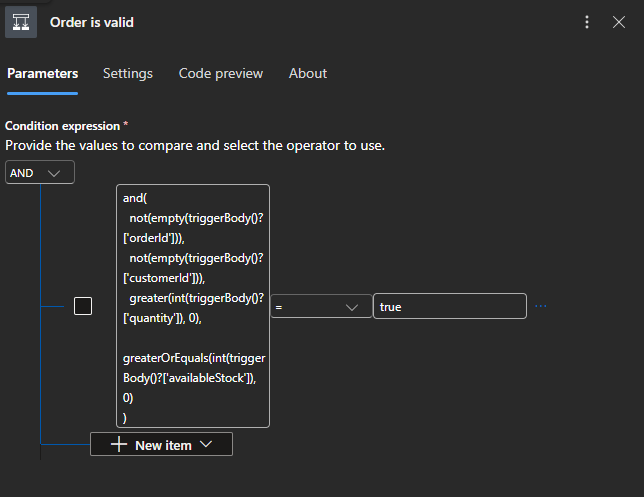
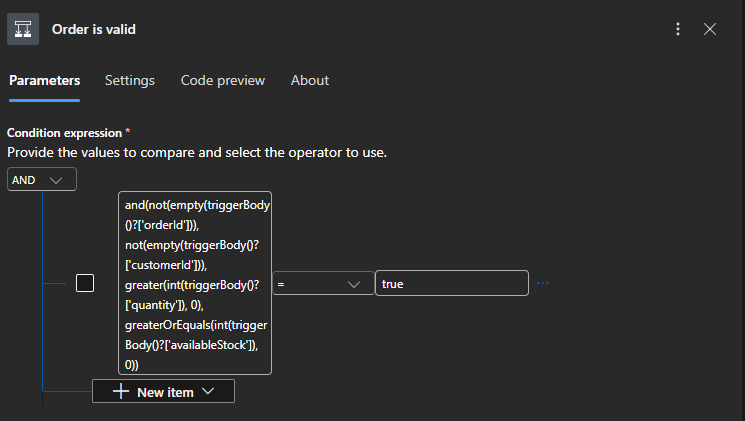
Publish workshop to Public Pages

diff --git a/labs/lab03-order-fulfillment-vscode.html b/labs/lab03-order-fulfillment-vscode.html
@@ -67,10 +67,10 @@
   <img src="../images/custom/labs/lab03/lab03-step6-vscode-set-variable-fulfillmentStatus-pending.png" alt="Initialize variables action with a fulfillmentStatus variable of type String and value pending." width="480" height="459" loading="lazy" />
   <figcaption>Step 1: Initialize <code>fulfillmentStatus</code> as a String with the value <code>pending</code>.</figcaption>
 </figure></details></li><li>Below <strong>Initialize variables</strong>, add a <strong>Condition</strong> named <strong>Order is valid</strong>. Configure its single condition row as follows:<ol><li>Select the left <strong>Choose a value</strong> field, open <strong>Expression</strong>, paste the expression below without a leading <code>@</code>, and select <strong>Add</strong>.</li><li>Set the operator to <strong>is equal to</strong>.</li><li>In the right <strong>Choose a value</strong> field, open <strong>Expression</strong>, enter <code>true</code>, and select <strong>Add</strong>. Use the Boolean expression <code>true</code>, not the text string <code>"true"</code>.</li></ol>
-<pre class="code">and(not(empty(triggerBody()?['orderId'])), not(empty(triggerBody()?['customerId'])), greater(int(triggerBody()?['quantity']), 0), greaterOrEquals(int(triggerBody()?['availableStock']), 0))</pre><p>Copy the expression as a single line. You do not need to add these four checks as separate condition rows. The <code>and(...)</code> expression returns one Boolean result.</p><div class="callout"><strong>Verify before continuing:</strong> <strong>Order is valid</strong> must contain the complete <code>and(...)</code> expression above. Do not use the <code>availableStock</code> versus <code>quantity</code> expression here; that comparison belongs only in the nested <strong>Inventory is available</strong> condition.</div><div class="callout"><strong>Expression, not text:</strong> If you paste the expression directly into the value box, or paste a version that contains line breaks, the designer can save it as a text string. The condition is then always false, and every order returns 400. Select the box, then select the <strong>fx</strong> (Expression) button, paste the expression there, and select <strong>Add</strong>. To confirm, open the condition's <strong>Code preview</strong> tab: the left value must start with <code>@and(</code>, and the right value must be <code>true</code> without quotation marks.</div>
+<pre class="code">and(not(empty(triggerBody()?['orderId'])), not(empty(triggerBody()?['customerId'])), greater(int(triggerBody()?['quantity']), 0), greaterOrEquals(int(triggerBody()?['availableStock']), 0))</pre><p>Copy the expression as a single line. You do not need to add these four checks as separate condition rows. The <code>and(...)</code> expression returns one Boolean result.</p><div class="callout"><strong>Verify before continuing:</strong> <strong>Order is valid</strong> must contain the complete <code>and(...)</code> expression above. Do not use the <code>availableStock</code> versus <code>quantity</code> expression here; that comparison belongs only in the nested <strong>Inventory is available</strong> condition.</div><div class="callout"><strong>Expression, not text:</strong> In a workflow definition, a value that starts with <code>@</code> is evaluated as an expression; without the <code>@</code>, it is plain text. When you add the expression through the <strong>fx</strong> editor, the designer adds the <code>@</code> for you. If you paste it directly into the value box, the designer saves it as text, the condition is always false, and every order returns 400. Select the box, then select the <strong>fx</strong> (Expression) button, paste the expression there, and select <strong>Add</strong>. To confirm, open the condition's <strong>Code preview</strong> tab: the left value must start with <code>@and(</code>, and the right value must be <code>true</code> without quotation marks.</div>
 <details class="screenshot-toggle"><summary>View screenshot</summary>
 <figure class="media-panel">
-  <img src="../images/custom/labs/lab03/lab03-step7-vscode-codition-is-valid.png" alt="Order is valid condition with the and expression in the left value, the equals operator, and true in the right value." width="644" height="497" loading="lazy" />
+  <img src="../images/custom/labs/lab03/lab03-step7-vscode-codition-is-valid.png" alt="Order is valid condition with the and expression in the left value, the equals operator, and true in the right value." width="745" height="421" loading="lazy" />
   <figcaption>Step 2: The complete <code>and(...)</code> expression is compared to the Boolean expression <code>true</code>. Add both values through the <strong>fx</strong> Expression editor, then confirm them on the <strong>Code preview</strong> tab.</figcaption>
 </figure></details></li><li>In the <strong>False</strong> branch, add a <strong>Response</strong> action and rename it <strong>Rejected Response</strong>. Set <strong>Status Code</strong> to <code>400</code>, then copy this JSON into <strong>Body</strong>:
 <pre class="code" data-lang="json">{
